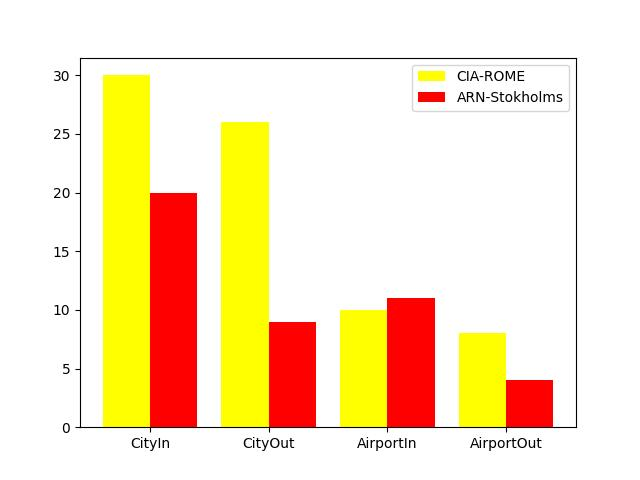
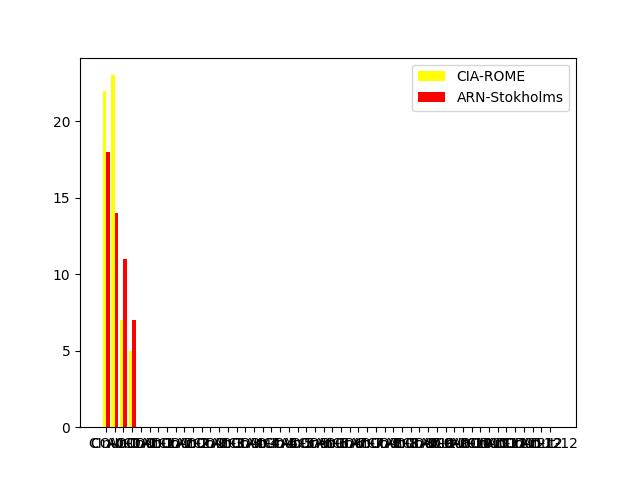
analysis for api3

diff --git a/analysis_service/analysis/views.py b/analysis_service/analysis/views.py
@@ -15,9 +15,9 @@ from drf_spectacular.utils import extend_schema
 
 from .serializers import FlightSerializer, FlightFilters, ReservePlaneSerializer
 from .models import Airport, Flight, PlaneType, ReservePlane
-from .utils import traffic
+from .utils import flights, traffic, sale
 
-class ReservePlaneAPI(APIView):
+class TrafficAnalysis(APIView):
     permission_classes = [IsAuthenticated]
     serializer_class = ReservePlaneSerializer
 
@@ -30,28 +30,100 @@ class ReservePlaneAPI(APIView):
         A1Data=traffic(airport_name1,dt_S,dt_E)
         A2Data=traffic(airport_name2,dt_S,dt_E)
 
+        if(len(A1Data)!=[] and len(A2Data)!=[]):
+            bars_Title = ["CIn", "COut", "AIn", "AOut"]
+            bars=[]
+            data1 = []
+            data2 = []
+
+            for j in range(len(A1Data)):
+                for i in range(1,5):
+                    bars.append(bars_Title[i-1]+"-"+str(j))
+                    data1.append(list(A1Data[j].values())[i])
+                    data2.append(list(A2Data[j].values())[i])
+
+            x_axis = np.arange(len(bars))
+            plt.bar(x_axis -0.2, data1, width=0.4, color='yellow', label=airport_name1+"-"+A1Data[0]['city'])
+            plt.bar(x_axis +0.2, data2, width=0.4, color='red', label=airport_name2+"-"+A2Data[0]['city'])
+            plt.xticks(x_axis,bars)
+            plt.legend()
+            plt.savefig("./media/output.jpg")
+
+            return HttpResponseRedirect(redirect_to="http://127.0.0.1:8000/media/output.jpg")
+        else:
+            return HttpResponse("No data in this time range!!!")
+
+class CarrierAnalysis(APIView):
+    permission_classes = [IsAuthenticated]
+    serializer_class = ReservePlaneSerializer
+    
+    @extend_schema(
+        request=None
+    )
+    def post(self, request, time_start, time_end, carrier_name1, carrier_name2):
+        dt_S = datetime.strptime(time_start, '%Y-%m-%d')
+        dt_E = datetime.strptime(time_end, '%Y-%m-%d')
+        A1Data=sale(carrier_name1,dt_S,dt_E)
+        A2Data=sale(carrier_name2,dt_S,dt_E)
+
         print(A1Data)
         print(A2Data)
-        
-        bars = ["CityIn", "CityOut", "AirportIn", "AirportOut"]
-        data1 = []
-        data2 = []
-        for i in range(1,5):
-            print(list(A1Data[0].values())[i])
-            data1.append(list(A1Data[0].values())[i])
-            print(list(A2Data[0].values())[i])
-            data2.append(list(A2Data[0].values())[i])
 
-        x_axis = np.arange(len(bars))
-        plt.bar(x_axis -0.2, data1, width=0.4, color='yellow', label=airport_name1+"-"+A1Data[0]['city'])
-        plt.bar(x_axis +0.2, data2, width=0.4, color='red', label=airport_name2+"-"+A2Data[0]['city'])
-        plt.xticks(x_axis,bars)
-        plt.legend()
-        plt.savefig("./media/output.jpg")
+        # if(len(A1Data)!=[] and len(A2Data)!=[]):
+        #     bars=[]
+        #     data1 = []
+        #     data2 = []
 
-        return HttpResponseRedirect(redirect_to="http://127.0.0.1:8000/media/output.jpg")
+        #     for j in range(len(A1Data)):
+        #         bars.append(j)
+        #         //data1.append(A1Data[j]['total'])
+        #         //data2.append(A2Data[j]['total'])
 
-    
+        #     x_axis = np.arange(len(bars))
+        #     plt.bar(x_axis -0.2, data1, width=0.4, color='yellow', label=carrier_name1)
+        #     plt.bar(x_axis +0.2, data2, width=0.4, color='red', label=carrier_name2)
+        #     plt.xticks(x_axis,bars)
+        #     plt.legend()
+        #     plt.savefig("./media/coutput.jpg")
+
+        #     return HttpResponseRedirect(redirect_to="http://127.0.0.1:8000/media/coutput.jpg")
+        # else:
+        return HttpResponse("No data in this time range!!!")
+
+class FlightAnalysis(APIView):
+    permission_classes = [IsAuthenticated]
+    serializer_class = ReservePlaneSerializer
+
+    @extend_schema(
+        request=None
+    )
+    def post(self, request, time_start, time_end, airplane_name1, airplane_name2):
+        dt_S = datetime.strptime(time_start, '%Y-%m-%d')
+        dt_E = datetime.strptime(time_end, '%Y-%m-%d')
+        A1Data=flights(airplane_name1,dt_S,dt_E)
+        A2Data=flights(airplane_name2,dt_S,dt_E)
+
+        if(len(A1Data)!=[] and len(A2Data)!=[]):
+            bars=[]
+            data1 = []
+            data2 = []
+
+            for j in range(len(A1Data)):
+                bars.append(j)
+                data1.append(A1Data[j]['flights'])
+                data2.append(A2Data[j]['flights'])
+
+            x_axis = np.arange(len(bars))
+            plt.bar(x_axis -0.2, data1, width=0.4, color='yellow', label=airplane_name1)
+            plt.bar(x_axis +0.2, data2, width=0.4, color='red', label=airplane_name2)
+            plt.xticks(x_axis,bars)
+            plt.legend()
+            plt.savefig("./media/foutput.jpg")
+
+            return HttpResponseRedirect(redirect_to="http://127.0.0.1:8000/media/foutput.jpg")
+        else:
+            return HttpResponse("No data in this time range!!!")
+
 class DeleteReserve(APIView):
     permission_classes = [IsAuthenticated]
     serializer_class = ReservePlaneSerializer

diff --git a/analysis_service/analysis/utils.py b/analysis_service/analysis/utils.py
@@ -1,10 +1,13 @@
 from sqlite3 import SQLITE_CREATE_TRIGGER
 from django.utils import timezone
+from django.db.models import Sum
 from dateutil.relativedelta import relativedelta
 
 from rest_framework.exceptions import NotFound
 
-from .replica_models import PlanesFlight, PlanesAirport
+from analysis.models import Carrier, PlaneType
+
+from .replica_models import PlanesFlight, PlanesAirport, PlanesPlanetype
 
 def traffic(airport_name: str, date_start: timezone.datetime, date_end: timezone.datetime) -> dict:
     try:
@@ -38,6 +41,47 @@ def traffic(airport_name: str, date_start: timezone.datetime, date_end: timezone
             ).count(),
             'airport_output': PlanesFlight.objects.using('flight_db').filter(
                 origin_airport=airport,
+                timestamp__year=start_month.year,
+                timestamp__month=start_month.month,
+            ).count(),
+            'date': str(start_month),
+        })
+        start_month = start_month + relativedelta(months=1)
+
+    return data
+
+def sale(carrier_name: str, date_start: timezone.datetime, date_end: timezone.datetime) -> dict:
+    data = []
+    start_month = timezone.datetime(year=date_start.year, month=date_start.month, day=1)
+    end_month = timezone.datetime(year=date_end.year, month=date_end.month, day=1)
+
+    while start_month <= end_month:
+        data.append({
+            'carrier': carrier_name,
+            'total': (PlanesFlight.objects.using('flight_db').filter(
+                            carrier__name=carrier_name,
+                            timestamp__year=start_month.year,
+                            timestamp__month=start_month.month,
+                        )
+                        .aggregate(
+                            total=Sum('price', field="price*plane_type.capacity")
+                        )['total']
+            ),
+            'date': str(start_month)
+        })
+        start_month = start_month + relativedelta(months=1)
+    return data
+
+def flights(airplane_name: str, date_start: timezone.datetime, date_end: timezone.datetime) -> dict:
+    data = []
+    start_month = timezone.datetime(year=date_start.year, month=date_start.month, day=1)
+    end_month = timezone.datetime(year=date_end.year, month=date_end.month, day=1)
+
+    while start_month <= end_month:
+        data.append({
+            'plane': airplane_name,
+            'flights': PlanesFlight.objects.using('flight_db').filter(
+                plane_type__name=airplane_name,
                 timestamp__year=start_month.year,
                 timestamp__month=start_month.month,
             ).count(),

diff --git a/analysis_service/analysis/urls.py b/analysis_service/analysis/urls.py
@@ -3,9 +3,11 @@ from django.urls import path
 from . import views
 
 urlpatterns = [
-    path('flights/', views.Flights.as_view()),
-    path('reserves/<int:pk>/', views.DeleteReserve.as_view()),
+    # path('flights/', views.Flights.as_view()),
+    # path('reserves/<int:pk>/', views.DeleteReserve.as_view()),
     # path('reserves/<str:plane_type>/', views.ReservePlaneAPI.as_view()),
-    path('reserves/<str:time_start>/<str:time_end>/<str:airport_name1>/<str:airport_name2>', views.ReservePlaneAPI.as_view()),
-    path('reserves/', views.ListReserves.as_view())
+    path('analysis/<str:time_start>/<str:time_end>/<str:airport_name1>/<str:airport_name2>', views.TrafficAnalysis.as_view()),
+    path('reserves/<str:time_start>/<str:time_end>/<str:carrier_name1>/<str:carrier_name2>', views.CarrierAnalysis.as_view()),
+    path('analysis/flights/<str:time_start>/<str:time_end>/<str:airplane_name1>/<str:airplane_name2>', views.FlightAnalysis.as_view()),
+    # path('reserves/', views.ListReserves.as_view())
 ]

diff --git a/analysis_service/analysis/serializers.py b/analysis_service/analysis/serializers.py
@@ -13,6 +13,13 @@ class ReservePlaneSerializer(serializers.ModelSerializer):
         model = ReservePlane
         fields = '__all__'
 
+class CarrierSerializer(serializers.ModelSerializer):
+    plane_type = PlaneTypeSerializer()
+    class Meta:
+        model = ReservePlane
+        fields = '__all__'
+
+
 class FlightSerializer(serializers.ModelSerializer):    
     class Meta:
         model = Flight
